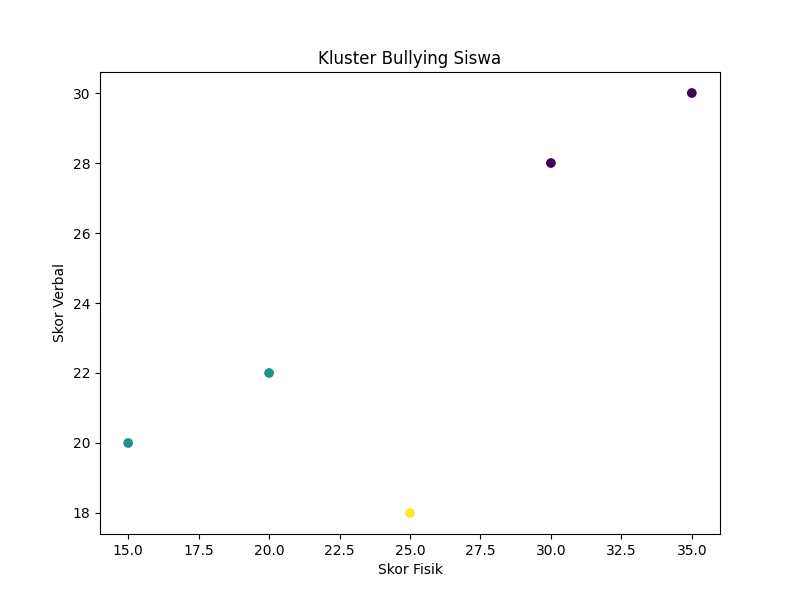
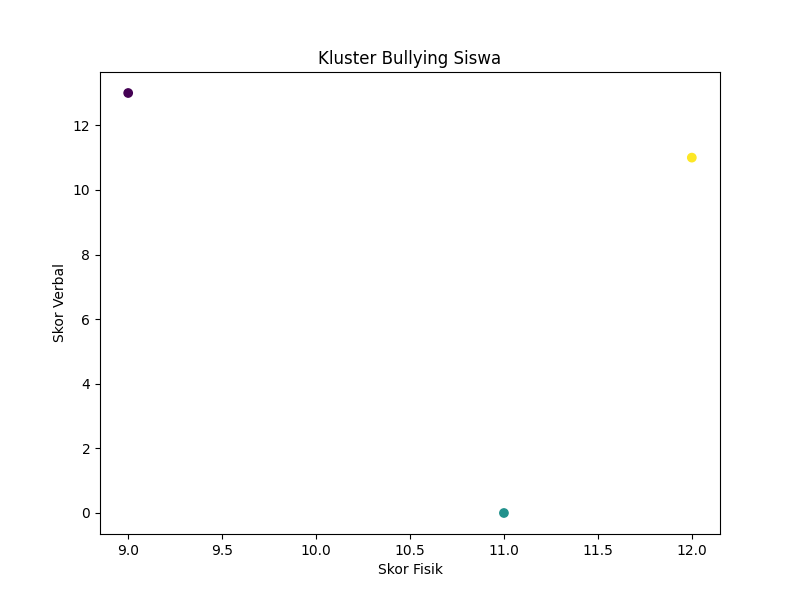
K-means calculation
Add k-means function for calculate student responses

diff --git a/apps/templates/page/peramalan.html b/apps/templates/page/peramalan.html
@@ -16,7 +16,73 @@
 <div class="row">
   <div class="col-md-12">
     <div class="tile">
-      <h3 class="tile-title"><i> Aktual Data</i></h3>
+      <h3 class="tile-title"><i> Data dan Kluster</i></h3>
+      <div class="tile-body">
+        <div class="table-responsive">
+          <table class="table table-hover table-bordered" id="data-width" width="100%">
+            <thead>
+              <tr>
+                <th style="text-align: center" width="10%">ID Siswa</th>
+                <th>Siswa</th>
+                <th>Skor Fisik</th>
+                <th>Skor Verbal</th>
+                <th>Skor Psikilogi</th>
+                <th>Cluster</th>
+              </tr>
+            </thead>
+            <tbody>
+              {% for record in data_records %}
+              <tr>
+                <td>{{ record.ID_Siswa }}</td>
+                <td>{{ record.Siswa }}</td>
+                <td>{{ record.Skor_Fisik }}</td>
+                <td>{{ record.Skor_Verbal }}</td>
+                <td>{{ record.Skor_Psikologis }}</td>
+                <td>{{ record.Kluster }}</td>
+              </tr>
+              {% endfor %}
+            </tbody>
+          </table>
+        </div>
+      </div>
+    </div>
+    <div class="tile">
+      <h3 class="tile-title"><i> Interpretasi Jumlah Kluster dalam Konteks Bullying</i></h3>
+      <div class="tile-body">
+        <span>
+          Misalnya, jika Anda menetapkan jumlah kluster (n_clusters) menjadi 3, kluster-kluster yang dihasilkan dapat mengklasifikasikan siswa menjadi beberapa kategori berikut:
+        </span>
+        <ol>
+          <li>
+            <p><strong>Kluster Siswa yang Terpengaruh Rendah</strong>:</p>
+            <ul>
+              <li>Siswa dalam kluster ini mungkin memiliki skor rendah di semua kategori (fisik, verbal, dan
+                psikologis).</li>
+              <li>Artinya, mereka cenderung jarang mengalami perilaku bullying atau mungkin hanya sedikit terdampak.
+              </li>
+            </ul>
+          </li>
+          <li>
+            <p><strong>Kluster Siswa yang Terpengaruh Sedang</strong>:</p>
+            <ul>
+              <li>Siswa dalam kluster ini memiliki skor yang lebih tinggi dari kluster pertama tetapi tidak setinggi
+                kluster terakhir.</li>
+              <li>Mereka mungkin mengalami beberapa bentuk bullying, tetapi dampaknya masih moderat.</li>
+            </ul>
+          </li>
+          <li>
+            <p><strong>Kluster Siswa yang Terpengaruh Tinggi</strong>:</p>
+            <ul>
+              <li>Siswa dalam kluster ini memiliki skor tinggi di satu atau lebih kategori bullying.</li>
+              <li>Mereka cenderung sangat terdampak oleh bullying, baik fisik, verbal, atau psikologis, atau kombinasi
+                dari semuanya.</li>
+            </ul>
+          </li>
+        </ol>
+      </div>
+    </div>
+    <div class="tile">
+      <h3 class="tile-title"><i> Grafik k-Means</i></h3>
       <div class="tile-body">
         <img src="{{ image_url }}" alt="Regresi Linear">
       </div>
@@ -30,35 +96,4 @@
 <!-- Specific Page JS goes HERE  -->
 {% block js %}
 
-<script>
-  $(function () {
-    table = $("#data-width").DataTable({
-      searching: false,
-      lengthChange: false,
-      paging: false,
-      ordering: false,
-      info: false,
-      ajax: '{% url "data/json" %}',
-      columns: [
-        {
-          data: "DT_RowIndex",
-          name: "DT_RowIndex",
-          className: "text-center",
-        },
-        {
-          data: "periode",
-          className: "text-center",
-        },
-        {
-          data: "jumlah",
-          className: "text-center",
-        },
-        {
-          data: "ekspor",
-          className: "text-center",
-        },
-      ],
-    });
-  });
-</script>
 {% endblock js %}

diff --git a/apps/peramalan/views.py b/apps/peramalan/views.py
@@ -2,25 +2,49 @@ import os
 import pandas as pd
 import matplotlib.pyplot as plt
 from sklearn.cluster import KMeans
-from django.contrib.auth.decorators import login_required
+from django.db.models import Sum, Q
 from django.template import loader
-from django.http import HttpResponse, HttpResponseRedirect, JsonResponse, Http404
+from django.http import HttpResponse
 from django.conf import settings
 
 
+#Decorators
+from ..decorators import admin_required
+
+# Models Import
+from django.contrib.auth.models import User
+from ..models import m_response,m_kuesioner
 # Create your views here.
 
-
-@login_required(login_url="/login/")
+@admin_required
 def index(request):
     
-    # Membuat data dummy
+    students_scores = (
+        User.objects.filter(groups__name='Siswa')
+        .annotate(
+            skor_fisik=Sum('m_response__answer', filter=Q(m_response__kuesioner__question_type='fisik')),
+            skor_verbal=Sum('m_response__answer', filter=Q(m_response__kuesioner__question_type='verbal')),
+            skor_psikologis=Sum('m_response__answer', filter=Q(m_response__kuesioner__question_type='psikologis'))
+        )
+    )
+    
+    # Format data ke bentuk dictionary
     data = {
-        'ID Siswa': [1, 2, 3, 4, 5],
-        'Skor Fisik': [30, 20, 35, 15, 25],
-        'Skor Verbal': [28, 22, 30, 20, 18],
-        'Skor Psikologis': [25, 15, 28, 10, 20]
+        'ID Siswa': [],
+        'Siswa': [],
+        'Skor Fisik': [],
+        'Skor Verbal': [],
+        'Skor Psikologis': []
     }
+
+    for student in students_scores:
+        data['ID Siswa'].append(student.id)
+        # Gabungkan first_name dan last_name
+        full_name = f"{student.first_name} {student.last_name}"
+        data['Siswa'].append(full_name)
+        data['Skor Fisik'].append(student.skor_fisik or 0)
+        data['Skor Verbal'].append(student.skor_verbal or 0)
+        data['Skor Psikologis'].append(student.skor_psikologis or 0)
     
     # Membuat DataFrame
     df = pd.DataFrame(data)
@@ -31,9 +55,10 @@ def index(request):
     # Menerapkan K-Means dengan 3 kluster
     kmeans = KMeans(n_clusters=3, random_state=0)
     df['Kluster'] = kmeans.fit_predict(X)
+    # Mengubah label cluster agar dimulai dari 1
+    df['Kluster'] += 1 
     
-    # Menampilkan hasil clustering
-    print(df)
+    
     
     # Visualisasi kluster
     plt.figure(figsize=(8, 6))
@@ -41,13 +66,18 @@ def index(request):
     plt.xlabel('Skor Fisik')
     plt.ylabel('Skor Verbal')
     plt.title('Kluster Bullying Siswa')
-
+    
+    # Menampilkan hasil clustering
+    df.rename(columns={'ID Siswa': 'ID_Siswa', 'Siswa': 'Siswa', 
+                   'Skor Fisik': 'Skor_Fisik', 'Skor Verbal': 'Skor_Verbal', 
+                   'Skor Psikologis': 'Skor_Psikologis'}, inplace=True)
+    data_records = df.to_dict(orient='records')
     # Menyimpan gambar
     image_path = os.path.join(settings.BASE_DIR, "static/k_means.png")
     plt.savefig(image_path)
     plt.close()  # Menutup grafik setelah disimpan
     
-    context = {"title": 'Peramalan Regresi Linear',"segment": "peramalan","image_url": os.path.join(settings.STATIC_URL, 'k_means.png')}
+    context = {'data_records': data_records,"title": 'Kluster Bullying Siswa',"segment": "Clustering","image_url": os.path.join(settings.STATIC_URL, 'k_means.png')}
 
     html_template = loader.get_template("page/peramalan.html")
     return HttpResponse(html_template.render(context, request))

diff --git a/myauth/views.py b/myauth/views.py
@@ -1,11 +1,27 @@
 from django.views import View
-from django.shortcuts import render
+from django.contrib.auth import login
+from django.shortcuts import render, redirect
 from django.contrib.auth.views import LoginView, LogoutView
 
 class CustomLoginView(LoginView):
-	template_name = 'accounts/login.html'
-	redirect_authenticated_user = True
- 
+    template_name = 'accounts/login.html'  # Template login yang digunakan
+    redirect_authenticated_user = True  # Arahkan pengguna yang sudah login
+
+    def form_valid(self, form):
+        # Proses login pengguna
+        user = form.get_user()
+        login(self.request, user)
+
+        # Pengalihan berdasarkan grup
+        if user.groups.filter(name='Admin').exists():
+            return redirect('pusat/dashboard')  # Ubah sesuai URL name dashboard admin
+        elif user.groups.filter(name='Guru BK').exists():
+            return redirect('guru/dashboard')  # Ubah sesuai URL name dashboard guru BK
+        elif user.groups.filter(name='Siswa').exists():
+            return redirect('siswa/dashboard')  # Ubah sesuai URL name dashboard siswa
+        
+        # Jika tidak ada grup yang sesuai
+        return redirect('default_dashboard')  # Ubah sesuai URL name dashboard default
  
 class HomeView(View):
     template_name = 'accounts/home.html'

diff --git a/apps/responses/views.py b/apps/responses/views.py
@@ -44,7 +44,6 @@ def isi(request, data_id):
     
     if request.method == 'POST':
         form = ResponsesForm(request.POST, instance=response)
-        print(form)
         if form.is_valid():
             response = form.save(commit=False)  # Tidak simpan ke database dulu
             response.user_id = auth_id  # Set user dari parameter
@@ -92,16 +91,17 @@ def json(request):
     
 # FIND DATA OBJECT
 def find(request, data_id):
+    auth_id = request.user.id
     if request.method == "GET":
         all_objs = m_kuesioner.objects.all().values("id").filter(id=data_id)
         for load in all_objs:
-            response = m_response.objects.filter(id=load['id']).values("id","kuesioner_id","answer","submission_date")
+            kuesioner = m_kuesioner.objects.get(id=load['id'])
+            response = m_response.objects.filter(user_id=auth_id, kuesioner=kuesioner).first()
             load['kuesioner'] = load['id']
             if not response:
                 load['answer'] = 0
             else:   
-                load['answer'] = response[0]['answer']
-                
+                load['answer'] = response.answer
         data = {"data": list(all_objs)}
         return JsonResponse(data, safe=False)
     else:

diff --git a/apps/models.py b/apps/models.py
@@ -1,6 +1,6 @@
 from django.db import models
 from django.conf import settings
-from django.contrib.auth.models import AbstractUser
+from django.contrib.auth.models import User
 # Create your models here.
     
 class m_data(models.Model):
@@ -42,7 +42,7 @@ class m_response(models.Model):
         ('4', 'Sering'),
         ('5', 'Sangat Sering'),
     ]
-    user_id = models.IntegerField()  # Menghubungkan ke CustomUser
+    user = models.ForeignKey(User, on_delete=models.CASCADE)  # Menghubungkan ke CustomUser
     kuesioner = models.ForeignKey(m_kuesioner, on_delete=models.CASCADE)  # Menghubungkan ke pertanyaan kuesioner
     answer = models.CharField(max_length=10,choices=RESPONSES_TYPES, default='0')  # Jawaban (misalnya, skala 1-5)
     submission_date = models.DateTimeField(auto_now_add=True)  # Waktu pengisian

diff --git a/apps/dashboard/views.py b/apps/dashboard/views.py
@@ -12,8 +12,7 @@ from ..models import m_data
 from ..decorators import admin_required, siswa_required, guru_bk_required
 
 # Create your views here.
-
-
+@login_required
 @admin_required
 def index(request):
     data = {}
@@ -25,6 +24,7 @@ def index(request):
     return HttpResponse(html_template.render(context, request))
 
 
+@login_required
 @guru_bk_required
 def guru(request):
     data = {}
@@ -35,6 +35,7 @@ def guru(request):
     html_template = loader.get_template("page/dashboard.html")
     return HttpResponse(html_template.render(context, request))
 
+@login_required
 @siswa_required
 def siswa(request):
     data = {}
